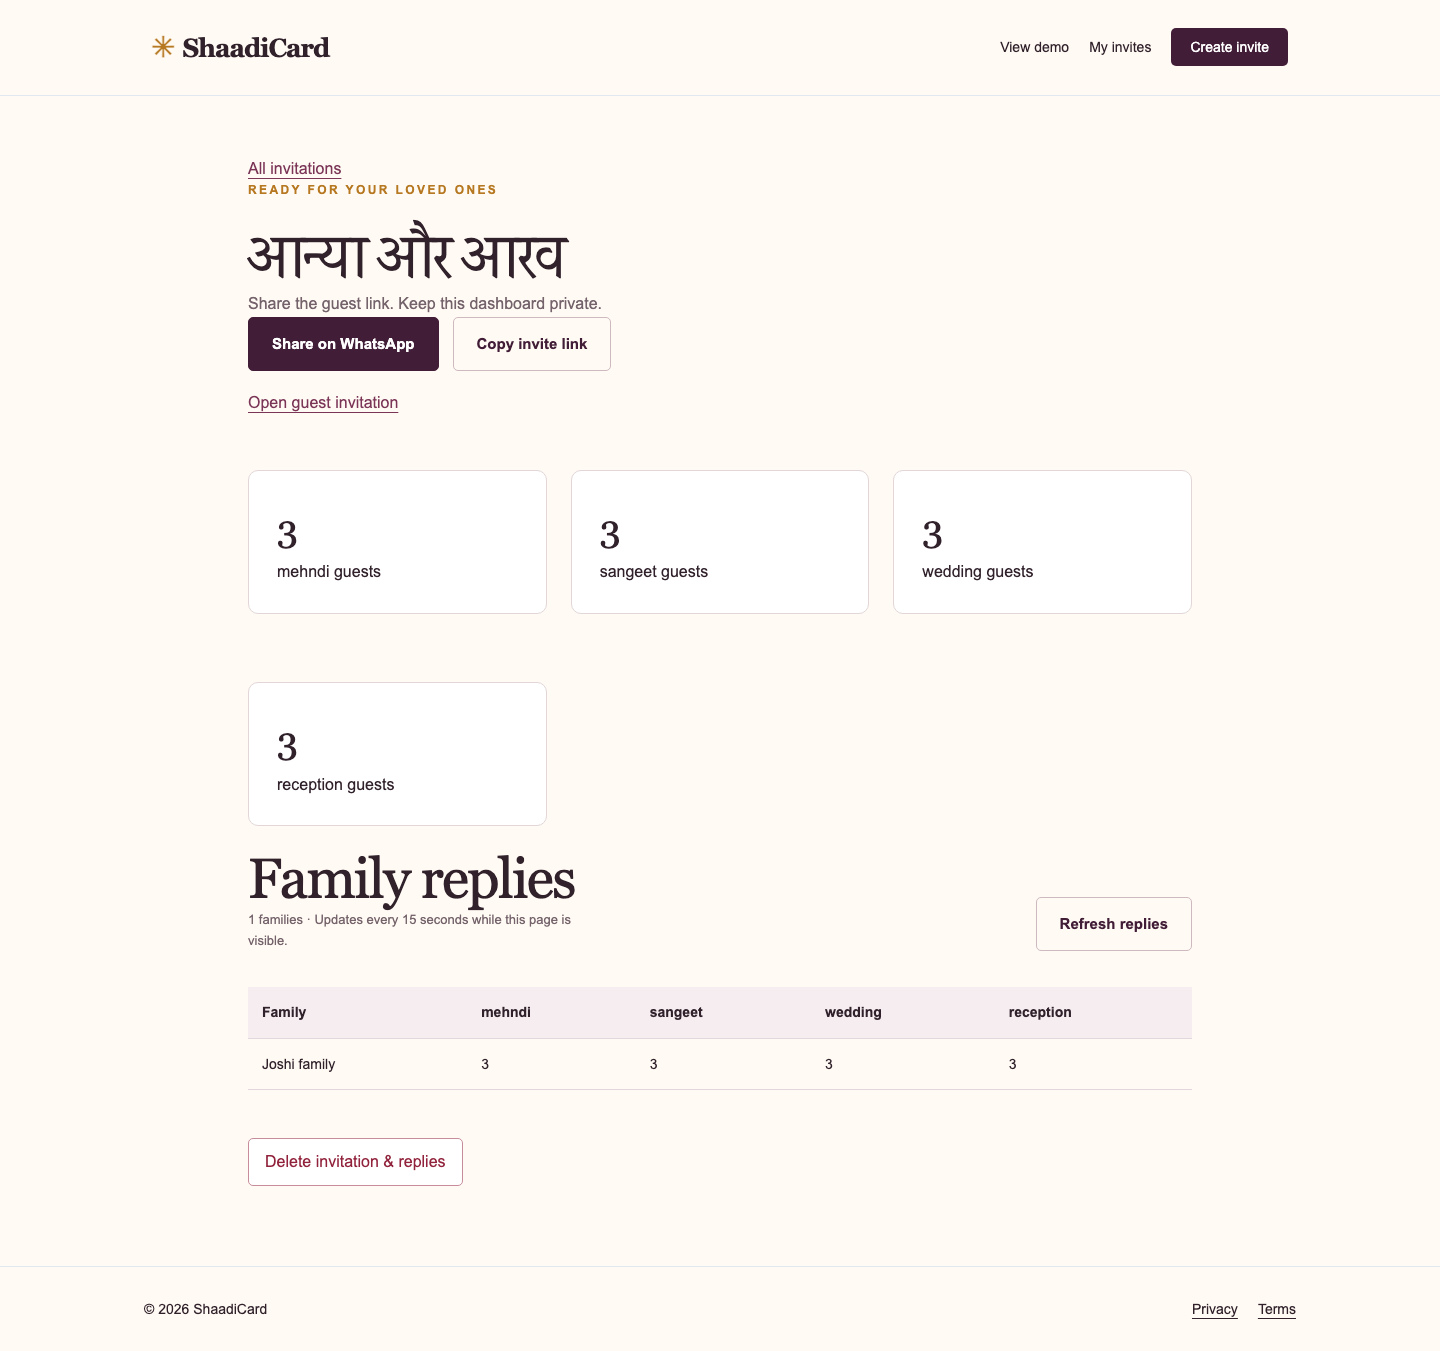
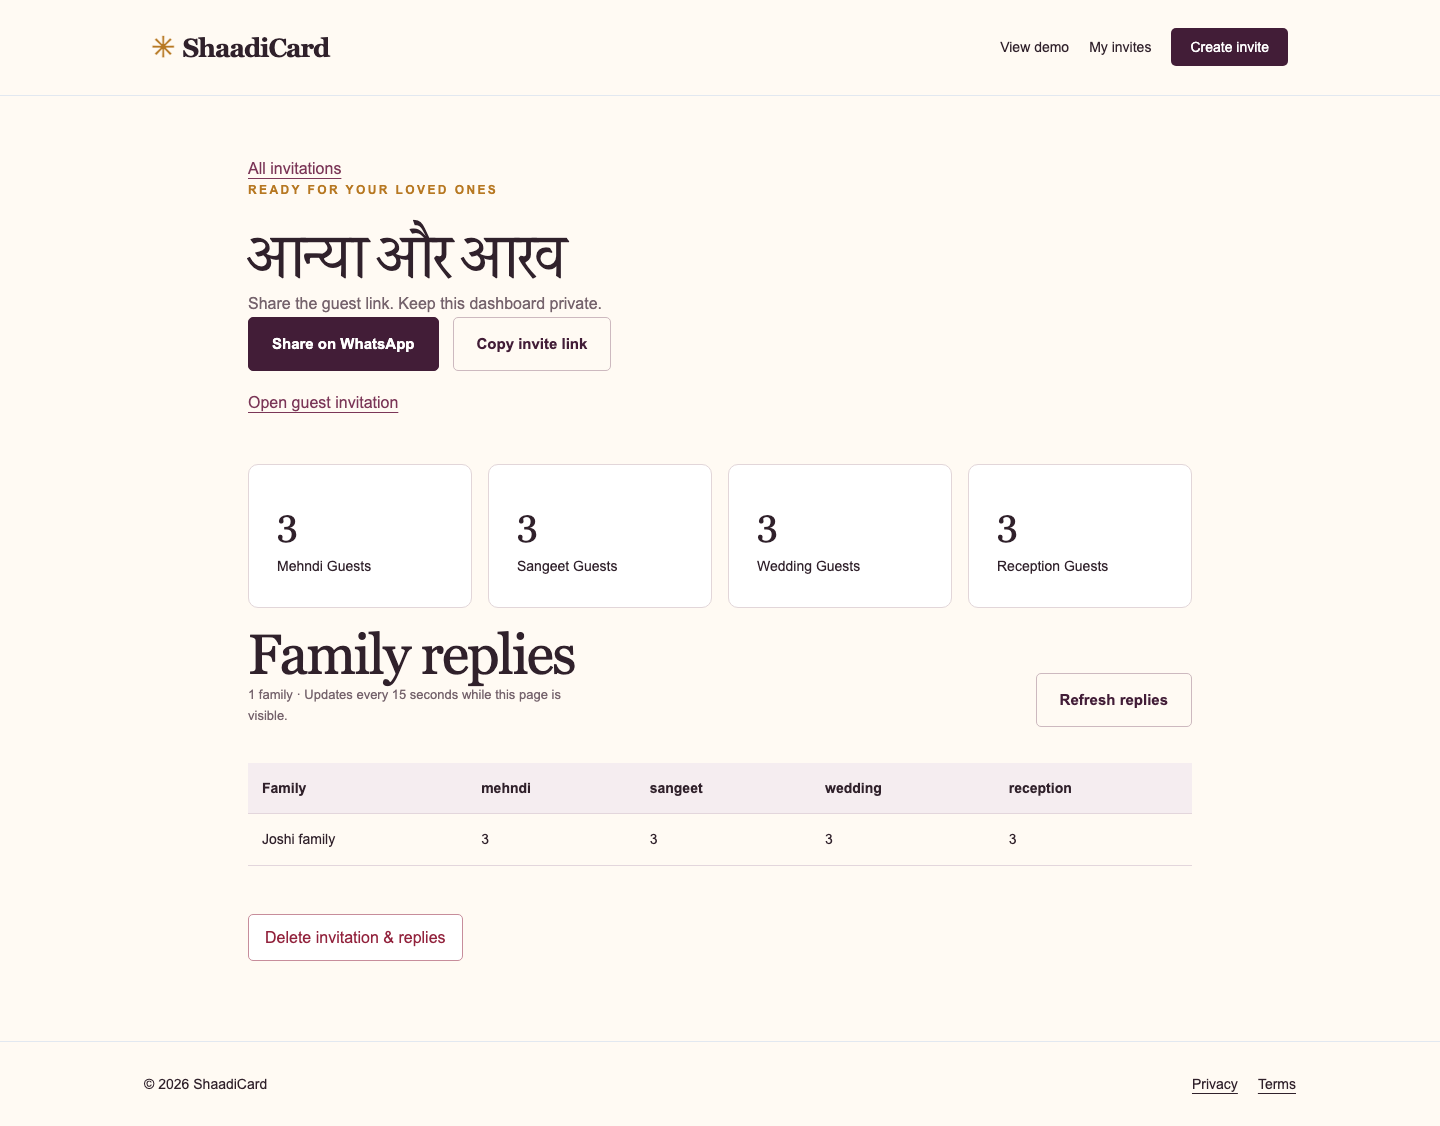
docs(evidence): record final gates and verified desktop and mobile captures

diff --git a/docs/GATES.md b/docs/GATES.md
@@ -7,11 +7,16 @@ All shared launch-kit files remain unchanged. Local checks use the actual Next.j
 | Production build | PASS, Next.js 16.4.6 with strict TypeScript. Tailwind precompiled through npm prebuild. |
 | Unit tests | PASS, 7: translations, complete ceremony answers, duplicate rejection, bounds, independent headcounts, date rendering and impossible calendar dates. |
 | Browser happy path | PASS, 2 tests: account and invitation creation, share link, Hindi/Urdu/Gujarati rendering, shop branding, RSVP create/update, owner denial and deletion; main route/phone/404 checks. |
-| Placeholder scan | PASS; rerun before final commit. |
+| Placeholder scan | PASS, final source scanned with the shared script. |
 | Header check | PASS on local HTTP and https://shaadicard-taupe.vercel.app, including hosted HSTS. |
 | Policy check | PASS on local production and hosted HTTPS. Distinct substantive template-derived pages; factual/legal adequacy remains manual. |
-| Cold mobile performance | PASS, LCP 1288 / 956 / 1596 ms; worst 1596 ms. Three fresh servers/contexts, 4× CPU and 1.6 Mbps / 150 ms throttling. Local lab evidence only. |
+| Cold mobile performance | PASS, LCP 616 / 596 / 596 ms; worst 616 ms on the final build (earlier run: 1288 / 956 / 1596 ms). Three fresh servers/contexts, 4× CPU and 1.6 Mbps / 150 ms throttling. Local lab evidence only. |
 | Dependency audit | PASS, 0 vulnerabilities across installed dependencies, including development packages. |
+| Security regression suite | PASS, 2 tests: size/validation/CSRF/rate limits, spoofed header resistance, rotating CSP nonces and rendered OG image. |
+| Frozen install | PASS, npm ci --ignore-scripts from the committed lockfile; subsequent production build and checks pass. |
+| Secret scans | PASS, Gitleaks on 3-commit history and current source archive; 48 built client assets compared against database URLs/passwords with zero matches. |
+| Screenshots | PASS, 24 real desktop/mobile PNGs across 12 routes/states; wait for page headings and loaded fonts before capture. |
+| README animation | PASS, locally rendered committed SVG image changed between frames; no remote image hotlink. |
 | Runtime privileges | PASS, current_user shaadicard_runtime; can_change_schema false; can_mark_paid false. |
 | Demo video | PASS, 62-second H.264/AAC MP4, audible system TTS track, eight large caption sections; real local app backed by Neon. |
 | Hosted persistence | BLOCKED: automatic approval review denied transfer of DATABASE_URL. Public deployment is a functional demo, not a complete live RSVP launch. |
